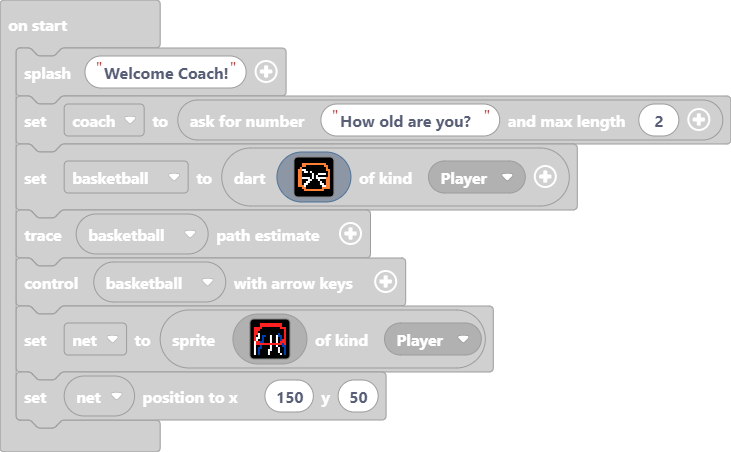
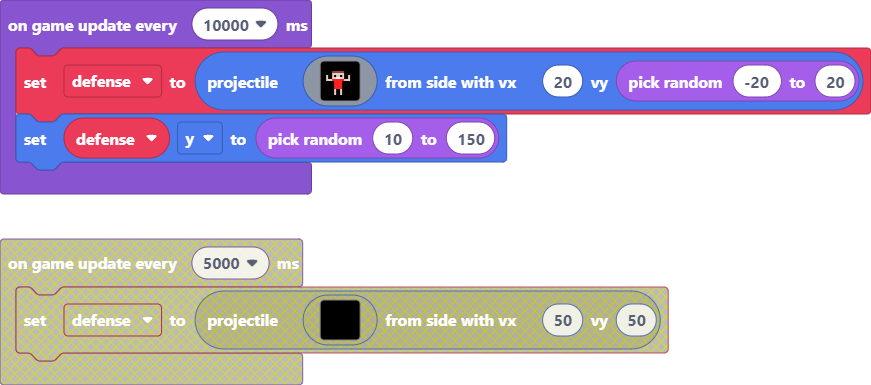
Update main.blocks, main.ts

diff --git a/main.ts b/main.ts
@@ -52,23 +52,24 @@ let net = sprites.create(img`
     1 . 8 . . . . 1 . . . . . 1 . 8 
     `, SpriteKind.Player)
 net.setPosition(150, 50)
-game.onUpdateInterval(5000, function () {
+game.onUpdateInterval(10000, function () {
     defense = sprites.createProjectileFromSide(img`
         . . . . . . . . . . . . . . . . 
         . . . . . . . . . . . . . . . . 
         . . . . . . . . . . . . . . . . 
-        . . . . . . . . . . . . . . . . 
-        . . . . . . . . . . . . . . . . 
-        . . . . . . . . . . . . . . . . 
-        . . . . . . . . . . . . . . . . 
-        . . . . . . . . . . . . . . . . 
-        . . . . . . . . . . . . . . . . 
-        . . . . . . . . . . . . . . . . 
-        . . . . . . . . . . . . . . . . 
-        . . . . . . . . . . . . . . . . 
-        . . . . . . . . . . . . . . . . 
-        . . . . . . . . . . . . . . . . 
-        . . . . . . . . . . . . . . . . 
-        . . . . . . . . . . . . . . . . 
-        `, 50, 50)
+        . . . . e e e e e e . . . . . . 
+        . . . . d d d d d d . . . . . . 
+        . d . . d f d d f d . . d . . . 
+        . d . . d d 1 1 d d . . d . . . 
+        . d d d 2 2 2 2 2 2 d d d . . . 
+        . . . . . 2 2 2 2 . . . . . . . 
+        . . . . . 2 2 2 2 . . . . . . . 
+        . . . . . 2 2 2 2 . . . . . . . 
+        . . . . . 2 2 2 2 . . . . . . . 
+        . . . . . d . . d . . . . . . . 
+        . . . . . d . . d . . . . . . . 
+        . . . . . d . . d . . . . . . . 
+        . . . f f f . . f f f . . . . . 
+        `, 20, randint(-20, 20))
+    defense.y = randint(10, 150)
 })
